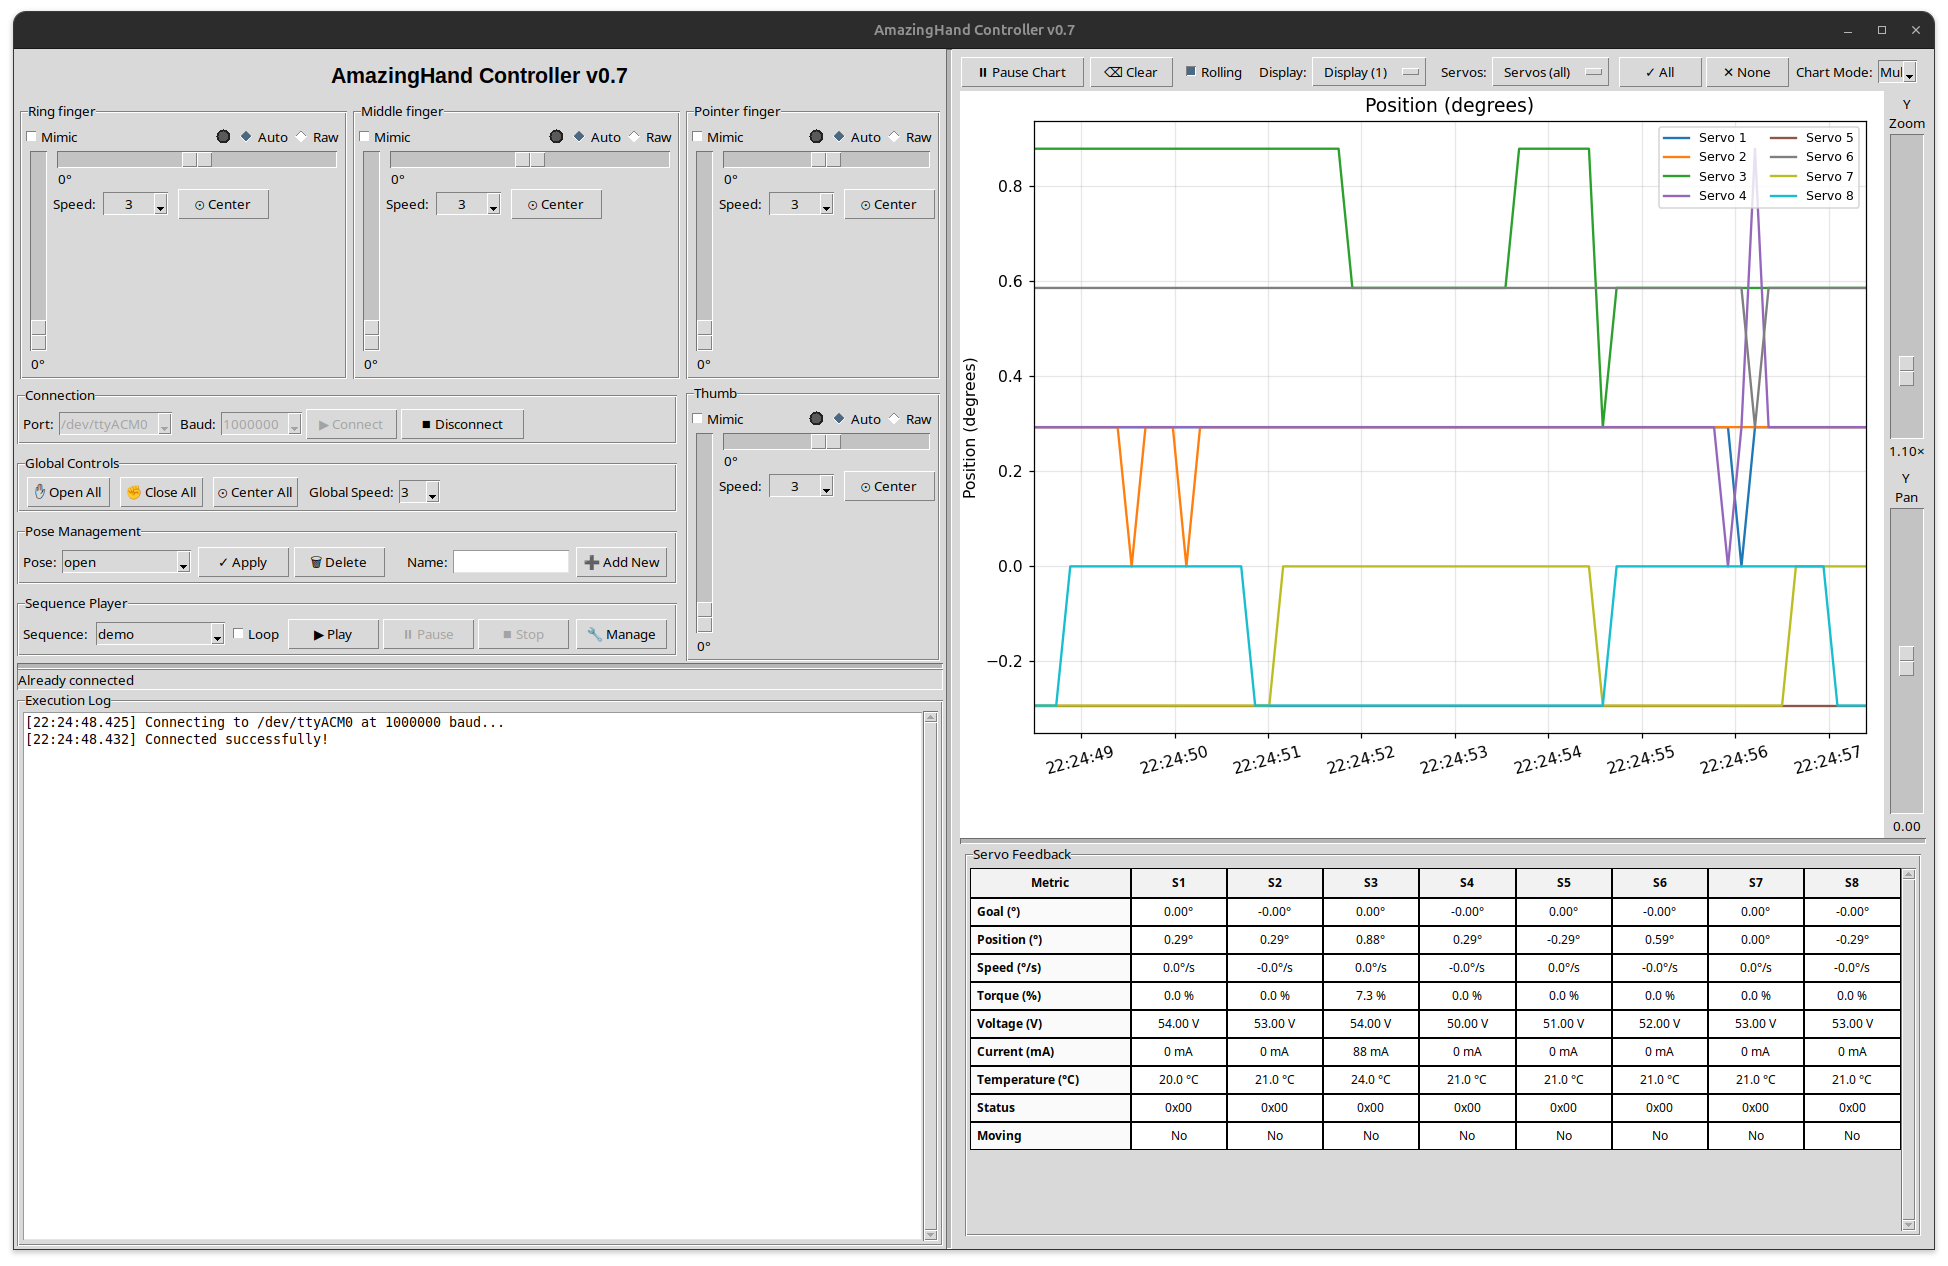
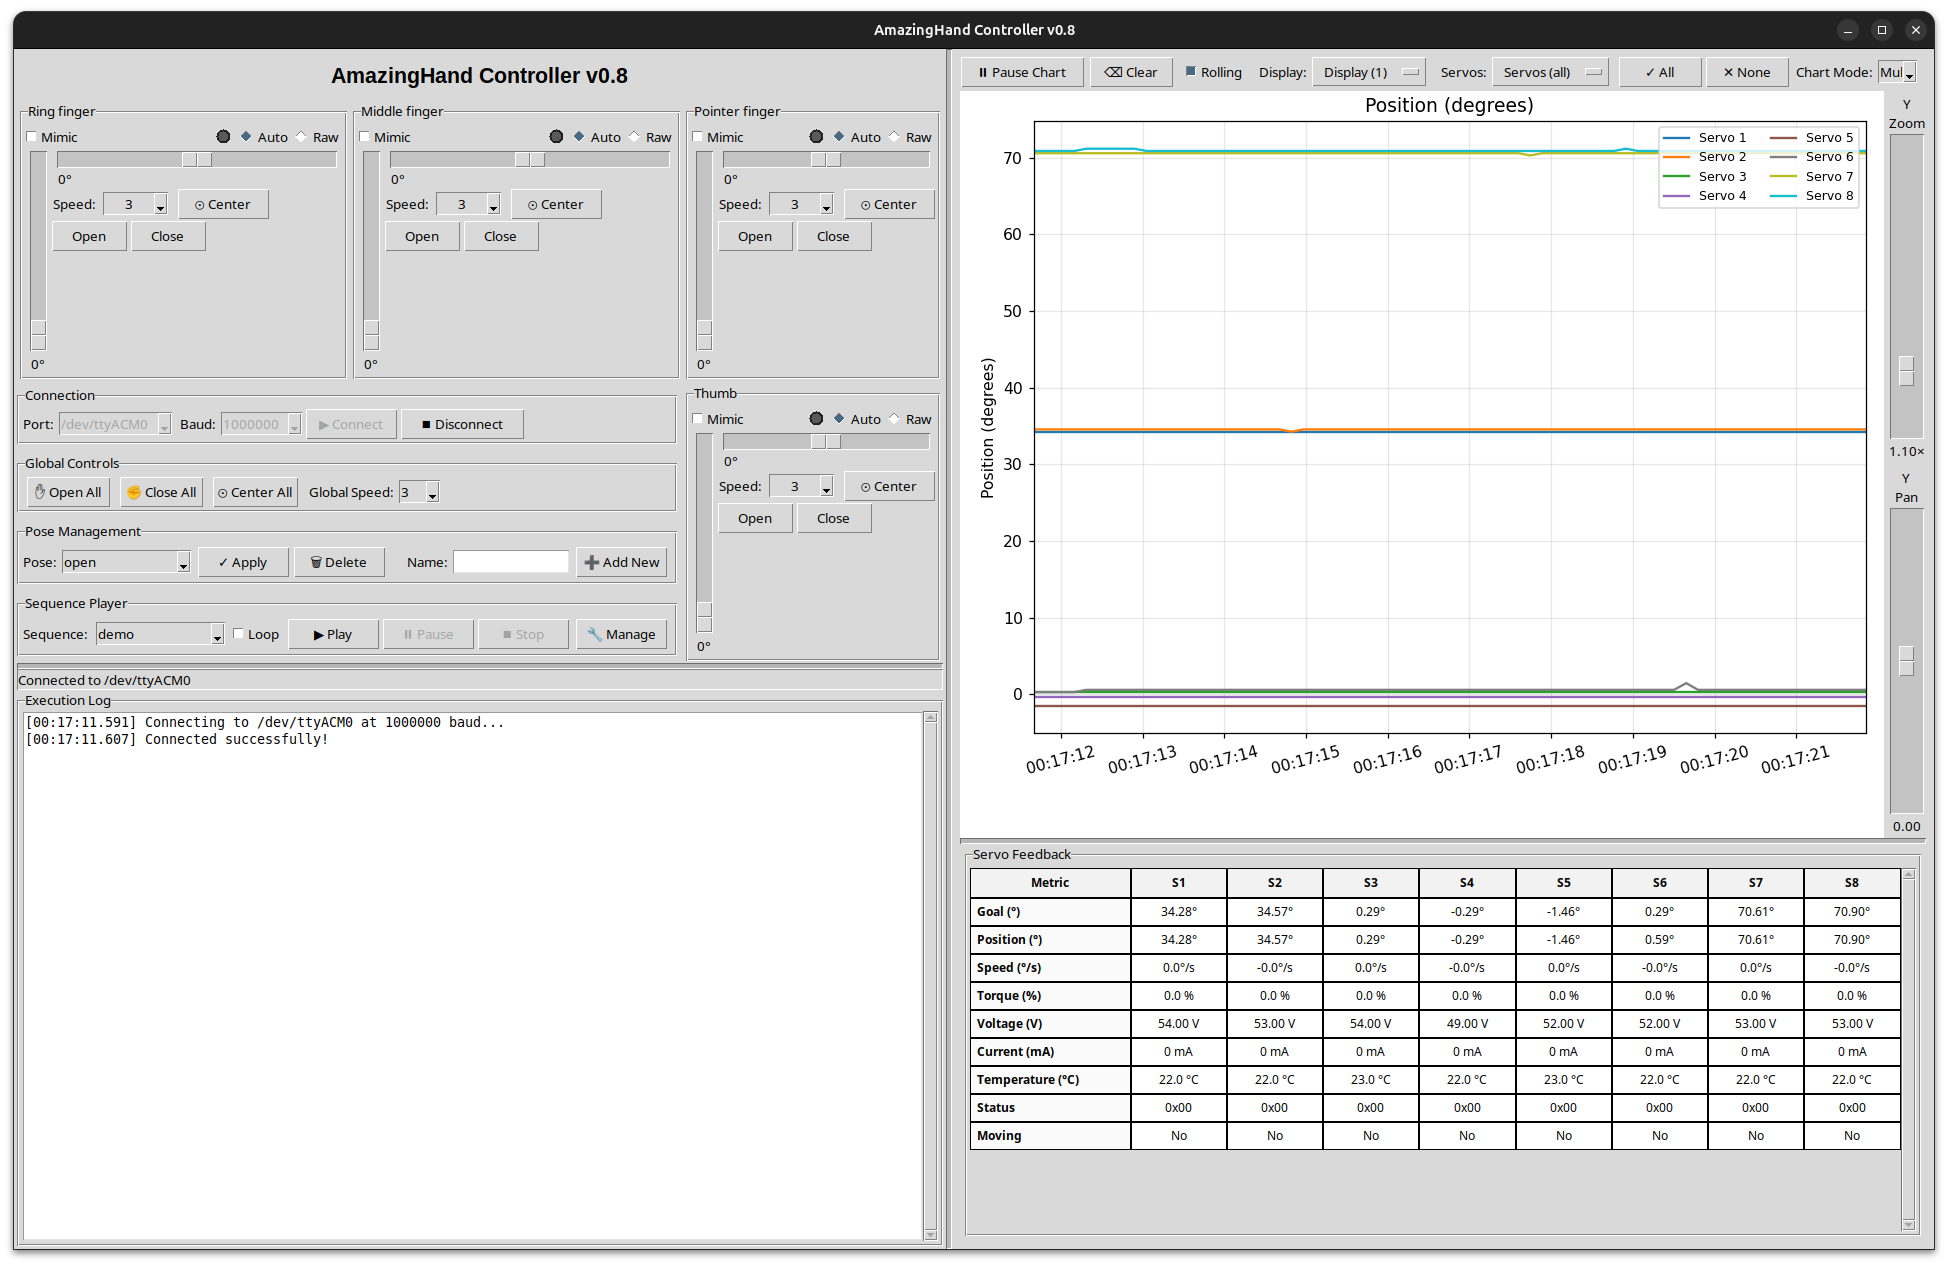
docs: update README for pyproject.toml, tests, project structure
- Add project structure tree with all modules and test files
- Installation via pip install -e . (pyproject.toml) as primary method
- Add per-finger Open/Close buttons to feature list
- Add Testing section with pytest commands for unit and hardware tests
- Bump pyproject.toml version to 0.8.0
- Add pytest-mock to requirements-dev.txt

diff --git a/README.md b/README.md
@@ -4,23 +4,53 @@ Python GUI and command-line tools to control the AmazingHand robot using Feetech
 
 This project is designed for the [AmazingHand](https://github.com/pollen-robotics/AmazingHand) by Pollen Robotics.
 
+### Project Structure
+
+```
+amazing_hand_gui.py   – Main GUI application
+amazing_hand_cmd.py   – Command-line interface
+hand_logic.py         – Shared business logic (no UI dependencies)
+pyproject.toml        – Package metadata, dependencies, pytest config
+data/
+  config.yaml         – App settings (serial ports, limits, speeds)
+  hand_config.yaml    – Saved poses and sequences
+docs/
+  REQUIREMENTS.md     – Requirements & acceptance criteria
+  user_manual.md      – User manual
+  CONFIG_FORMAT.md    – Config file format reference
+tests/
+  test_hand_logic.py  – Unit tests for hand_logic (89 tests)
+  test_gui_utils.py   – Unit tests for GUI utilities (51 tests)
+  test_cmd.py         – Unit tests for CLI (41 tests)
+  test_integration.py – Integration tests (14 tests)
+  test_system.py      – System tests via subprocess (22 tests)
+  test_system_hardware.py – Hardware tests (33 tests, requires --hardware)
+```
+
 ### Requirements
 
 - Python 3.10 or newer (Tkinter must be included for the GUI)
 - External 5 V power supply for the eight servos
 - USB serial bus adapter and driver installed on your computer
-- Python packages listed in `requirements.txt`
 
-Install the dependencies once (same on Windows, Linux, macOS):
+### Installation
+
+Install with pip (recommended — uses `pyproject.toml`):
 
 ```bash
-python -m pip install -r requirements.txt
+pip install -e .
 ```
 
-On Windows you can also use:
+Or install dependencies directly:
 
 ```bash
-py -3 -m pip install -r requirements.txt
+pip install -r requirements.txt
+```
+
+For development and testing:
+
+```bash
+pip install -r requirements-dev.txt
 ```
 
 ### Default Serial Port
@@ -42,6 +72,7 @@ python amazing_hand_gui.py
 
 Features:
 - Per-finger sliders for open/close and left/right
+- Per-finger Open / Close buttons for quick positioning
 - Per-finger speed selection (1-6) with a global speed sync dropdown
 - Keyboard shortcuts for quick precise movements
 - Pose and sequence management using `data/hand_config.yaml`
@@ -164,6 +195,28 @@ python amazing_hand_cmd.py --sequence wave --loop
 | `--config PATH` | `data/hand_config.yaml` | Alternative config file |
 
 Torque is automatically disabled on all servos when the script exits (including Ctrl+C).
+
+---
+
+### Testing
+
+The project includes 217 unit/integration/system tests plus 33 hardware tests.
+
+#### Run all tests (no hardware required)
+
+```bash
+pytest
+```
+
+#### Run hardware tests (requires connected servos)
+
+```bash
+pytest tests/test_system_hardware.py --hardware --port /dev/ttyACM0
+```
+
+Hardware tests verify real servo communication: connection, pose apply, telemetry reads, individual finger open/close/wave, speed control, sequence execution, and movement detection.
+
+See `docs/REQUIREMENTS.md` for the full requirements and acceptance criteria.
 
 ---
 